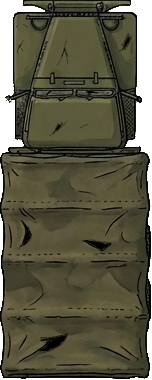
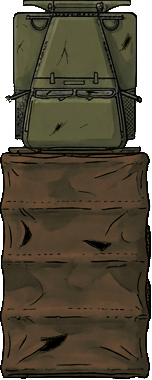
truck progress

diff --git a/src/GameDemo/RTSDemo/Units/Truck.java b/src/GameDemo/RTSDemo/Units/Truck.java
@@ -108,8 +108,10 @@ public class Truck extends RTSUnit{
         @Override
         public void tick() {
             super.tick();
+            // todo make wheels turn gradually and limit max difference in rotation between the wheel and host
             if(hull.getDesiredLocation()!= null) {
-              this.setRotation(hull.angleFrom(hull.getDesiredLocation()));
+              double desiredRotation = hull.angleFrom(hull.getDesiredLocation());
+              this.setRotation(desiredRotation);
             }
         }
         